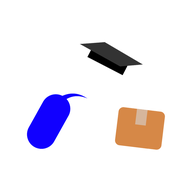
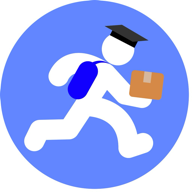
feat: 온라인 최소 500P, 수수료 상한 1,000P 정산 화면, 새 아이콘, 지도 안내 개선
- 온라인(비대면) 의뢰 최소 사례금 500P (그 외 1,000P), 상한 100,000P
- 플랫폼 수수료 10% + 1,000P 상한(_platform_fee), 의뢰 작성·결제 확인 화면에
  수행자 수령액/수수료 차감 정산 내역 표시
- 사례금 입력란에 한도·보유 포인트 안내와 범위 초과 경고 복구
- 새 로고 이미지로 logo-mark/icon-192/icon-512/apple-touch-icon/app icon 교체
- /map '지도에서 찾기' 헤딩 제거, 카카오맵 실패 시 도메인 등록 안내로 문구 변경

diff --git a/src/app/(app)/errands/new/_components/new-errand-form.tsx b/src/app/(app)/errands/new/_components/new-errand-form.tsx
@@ -7,8 +7,14 @@ import {
   ERRAND_CATEGORIES,
   URGENT_LEVEL_FEE,
   MIN_ERRAND_PRICE,
+  MAX_ERRAND_PRICE,
+  PLATFORM_FEE_MAX,
+  PLATFORM_FEE_RATE,
   LOCATION_TYPES,
   LOCATION_TYPE_LABEL,
+  calculatePlatformFee,
+  calculateRunnerPayout,
+  minErrandPrice,
   type ErrandCategory,
   type LocationType,
 } from "@/lib/constants";
@@ -113,13 +119,17 @@ export function NewErrandForm({ places, pointBalance, schoolCenter }: NewErrandF
   const priceNumber = Number(price) || 0;
   const urgentFee = urgentLevel === 0 ? 0 : URGENT_LEVEL_FEE[urgentLevel];
   const totalCost = priceNumber + urgentFee;
+  const minPrice = minErrandPrice(locationType);
+  const platformFee = calculatePlatformFee(priceNumber);
+  const runnerPayout = calculateRunnerPayout(priceNumber);
 
   const isFormValid =
     title.trim().length >= 2 &&
     body.trim().length >= 5 &&
     effectiveFromLeg.label.trim().length >= 1 &&
     effectiveToLeg.label.trim().length >= 1 &&
-    priceNumber >= MIN_ERRAND_PRICE &&
+    priceNumber >= minPrice &&
+    priceNumber <= MAX_ERRAND_PRICE &&
     totalCost <= pointBalance;
 
   async function handleConfirmSubmit() {
@@ -290,9 +300,20 @@ export function NewErrandForm({ places, pointBalance, schoolCenter }: NewErrandF
           className={inputBaseClass}
           value={price}
           onChange={(event) => setPrice(event.target.value)}
-          min={MIN_ERRAND_PRICE}
+          min={minPrice}
+          max={MAX_ERRAND_PRICE}
           step={100}
         />
+        <span className="text-xs text-gray-400">
+          한도 {formatPoints(minPrice)} ~ {formatPoints(MAX_ERRAND_PRICE)}
+          {locationType === "online" && " · 온라인 의뢰는 최소 금액이 낮아요"} · 보유 {formatPoints(pointBalance)}
+        </span>
+        {priceNumber > 0 && priceNumber < minPrice && (
+          <span className="text-xs text-[#F04452]">{formatPoints(minPrice)} 이상으로 입력해 주세요.</span>
+        )}
+        {priceNumber > MAX_ERRAND_PRICE && (
+          <span className="text-xs text-[#F04452]">{formatPoints(MAX_ERRAND_PRICE)} 이하로 입력해 주세요.</span>
+        )}
       </FormField>
 
       <FormField label="긴급 옵션">
@@ -316,9 +337,32 @@ export function NewErrandForm({ places, pointBalance, schoolCenter }: NewErrandF
 
       {error && <p className="text-xs text-[#F04452]">{error}</p>}
 
-      <div className="flex items-center justify-between rounded-xl bg-gray-50 px-4 py-3 text-sm">
-        <span className="text-gray-500">총 결제 금액</span>
-        <span className="font-bold text-[#3B5BFD]">{formatPoints(totalCost)}</span>
+      <div className="flex flex-col gap-1.5 rounded-xl bg-gray-50 px-4 py-3 text-sm">
+        <div className="flex justify-between text-gray-500">
+          <span>사례금</span>
+          <span>{formatPoints(priceNumber)}</span>
+        </div>
+        {urgentFee > 0 && (
+          <div className="flex justify-between text-[#F04452]">
+            <span>긴급 옵션</span>
+            <span>+{formatPoints(urgentFee)}</span>
+          </div>
+        )}
+        <div className="flex justify-between border-t border-gray-200 pt-1.5 font-bold text-gray-900">
+          <span>총 결제 금액</span>
+          <span className="text-[#3B5BFD]">{formatPoints(totalCost)}</span>
+        </div>
+        <div className="mt-1 flex justify-between border-t border-dashed border-gray-200 pt-1.5 text-gray-500">
+          <span>수행자 수령액</span>
+          <span className="font-semibold text-gray-700">{formatPoints(runnerPayout)}</span>
+        </div>
+        <div className="flex justify-between text-gray-400">
+          <span>
+            플랫폼 수수료 {Math.round(PLATFORM_FEE_RATE * 100)}%
+            {platformFee >= PLATFORM_FEE_MAX && ` (상한 ${formatPoints(PLATFORM_FEE_MAX)})`}
+          </span>
+          <span>-{formatPoints(platformFee)}</span>
+        </div>
       </div>
       {totalCost > pointBalance && (
         <p className="text-xs text-[#F04452]">보유 포인트({formatPoints(pointBalance)})가 부족해요.</p>

diff --git a/src/app/(app)/errands/new/_components/payment-confirm-modal.tsx b/src/app/(app)/errands/new/_components/payment-confirm-modal.tsx
@@ -1,4 +1,10 @@
 import { formatPoints } from "@/lib/utils";
+import {
+  PLATFORM_FEE_MAX,
+  PLATFORM_FEE_RATE,
+  calculatePlatformFee,
+  calculateRunnerPayout,
+} from "@/lib/constants";
 import { primaryButtonClass, secondaryButtonClass } from "@/components/ui/form-field";
 
 interface PaymentConfirmModalProps {
@@ -24,13 +30,15 @@ export function PaymentConfirmModal({
   onCancel,
   onConfirm,
 }: PaymentConfirmModalProps) {
+  const platformFee = calculatePlatformFee(price);
+  const runnerPayout = calculateRunnerPayout(price);
   return (
     <div className="fixed inset-0 z-50 flex items-center justify-center bg-black/40 px-5" onClick={onCancel}>
       <div
         className="w-full max-w-sm rounded-2xl bg-white p-5"
         onClick={(event) => event.stopPropagation()}
       >
-        <h2 className="text-lg font-bold text-gray-900">결제 확인</h2>
+        <h2 className="text-lg font-bold text-gray-900">정산 확인</h2>
         <p className="mt-1 text-sm text-gray-500">{title}</p>
         <p className="mt-1 text-xs text-gray-400">{fromLabel} → {toLabel}</p>
 
@@ -51,8 +59,23 @@ export function PaymentConfirmModal({
           </div>
         </div>
 
+        <div className="mt-2 flex flex-col gap-1.5 rounded-xl border border-dashed border-gray-200 p-3 text-sm">
+          <p className="text-xs font-semibold text-gray-500">완료 후 정산</p>
+          <div className="flex justify-between text-gray-700">
+            <span>수행자 수령액</span>
+            <span className="font-semibold">{formatPoints(runnerPayout)}</span>
+          </div>
+          <div className="flex justify-between text-gray-400">
+            <span>
+              플랫폼 수수료 {Math.round(PLATFORM_FEE_RATE * 100)}%
+              {platformFee >= PLATFORM_FEE_MAX && ` (상한 ${formatPoints(PLATFORM_FEE_MAX)})`}
+            </span>
+            <span>-{formatPoints(platformFee)}</span>
+          </div>
+        </div>
+
         <p className="mt-3 text-xs text-gray-400">
-          결제한 포인트는 수행자가 선택될 때까지 보관되며, 완료 확인 후 지급돼요.
+          결제한 포인트는 수행자가 선택될 때까지 보관되며, 완료 확인 후 수수료를 뺀 금액이 수행자에게 지급돼요.
         </p>
 
         <div className="mt-4 flex gap-2">

diff --git a/src/lib/validation/errand.ts b/src/lib/validation/errand.ts
@@ -1,5 +1,12 @@
 import { z } from "zod";
-import { ERRAND_CATEGORIES, LOCATION_TYPES } from "@/lib/constants";
+import {
+  ERRAND_CATEGORIES,
+  LOCATION_TYPES,
+  MAX_ERRAND_PRICE,
+  MIN_ERRAND_PRICE,
+  MIN_ERRAND_PRICE_ONLINE,
+  minErrandPrice,
+} from "@/lib/constants";
 
 const CATEGORY_VALUES = ERRAND_CATEGORIES.map((category) => category.value) as [string, ...string[]];
 
@@ -20,7 +27,11 @@ export const createErrandSchema = z.object({
   toLabel: z.string().min(1, "도착지를 선택해 주세요."),
   toDetail: z.string().max(200).optional(),
   desiredAt: z.string().min(1, "희망 시각을 선택해 주세요."),
-  price: z.number().int().min(1000, "금액은 1,000P 이상이어야 해요."),
+  price: z
+    .number()
+    .int()
+    .min(MIN_ERRAND_PRICE_ONLINE, `금액은 ${MIN_ERRAND_PRICE_ONLINE.toLocaleString("ko-KR")}P 이상이어야 해요.`)
+    .max(MAX_ERRAND_PRICE, `금액은 ${MAX_ERRAND_PRICE.toLocaleString("ko-KR")}P 이하여야 해요.`),
   aiSuggestedPrice: z.number().int().optional(),
   urgentLevel: z.union([z.literal(0), z.literal(1), z.literal(2)]).default(0),
   imageUrl: z.string().url().optional(),
@@ -30,6 +41,12 @@ export const createErrandSchema = z.object({
     (input.fromLat !== null && input.fromLat !== undefined && input.fromLng !== null && input.fromLng !== undefined &&
       input.toLat !== null && input.toLat !== undefined && input.toLng !== null && input.toLng !== undefined),
   { message: "캠퍼스 장소를 선택하면 좌표가 필요해요." },
+).refine(
+  (input) => input.price >= minErrandPrice(input.locationType),
+  {
+    error: `온라인 의뢰는 ${MIN_ERRAND_PRICE_ONLINE.toLocaleString("ko-KR")}P, 그 외는 ${MIN_ERRAND_PRICE.toLocaleString("ko-KR")}P 이상으로 입력해 주세요.`,
+    path: ["price"],
+  },
 );
 
 export type CreateErrandInput = z.infer<typeof createErrandSchema>;

diff --git a/src/lib/kakao/loader.ts b/src/lib/kakao/loader.ts
@@ -26,12 +26,18 @@ export function loadKakaoMaps(): Promise<typeof kakao> {
     const existingScript = document.getElementById(SCRIPT_ID) as HTMLScriptElement | null;
     const script = existingScript ?? document.createElement("script");
     script.id = SCRIPT_ID;
-    script.src = `//dapi.kakao.com/v2/maps/sdk.js?appkey=${appKey}&autoload=false&libraries=clusterer`;
+    script.src = `https://dapi.kakao.com/v2/maps/sdk.js?appkey=${appKey}&autoload=false&libraries=clusterer`;
     script.async = true;
     script.addEventListener("load", () => window.kakao.maps.load(() => resolve(window.kakao)));
+    // 스크립트 로드 실패는 대부분 카카오 개발자 콘솔에 현재 도메인이 등록되지 않아
+    // 401(domain mismatched)이 떨어지는 경우다. 원인을 바로 알 수 있게 도메인을 같이 보여준다.
     script.addEventListener("error", () => {
       loaderPromise = null;
-      reject(new Error("카카오맵 스크립트를 불러오지 못했어요. 네트워크 상태를 확인해 주세요."));
+      reject(
+        new Error(
+          `카카오맵을 불러오지 못했어요. 카카오 개발자 콘솔 > 플랫폼 > Web에 ${window.location.origin} 을 등록해 주세요.`,
+        ),
+      );
     });
     if (!existingScript) document.head.appendChild(script);
   });

diff --git a/src/lib/constants.ts b/src/lib/constants.ts
@@ -3,10 +3,14 @@ export const SELECT_WINDOW_MS = 3 * 60 * 60 * 1000;
 export const CONFIRM_WINDOW_MS = 24 * 60 * 60 * 1000;
 
 export const PLATFORM_FEE_RATE = 0.1;
-export const RUNNER_PAYOUT_RATE = 0.9;
+// 수수료는 10%지만 고액 의뢰에서 과도해지지 않도록 1,000P에서 상한을 둔다.
+export const PLATFORM_FEE_MAX = 1000;
 
 export const SIGNUP_BONUS_POINTS = 10000;
 export const MIN_ERRAND_PRICE = 1000;
+// 온라인(비대면) 의뢰는 이동이 없어 최소 사례금을 낮게 받는다.
+export const MIN_ERRAND_PRICE_ONLINE = 500;
+export const MAX_ERRAND_PRICE = 100000;
 
 export const URGENT_LEVEL_FEE: Record<1 | 2, number> = {
   1: 100,
@@ -27,6 +31,18 @@ export const LOCATION_TYPE_LABEL: Record<LocationType, string> = {
   custom: "직접 입력",
   online: "온라인(비대면)",
 };
+
+export function minErrandPrice(locationType: LocationType): number {
+  return locationType === "online" ? MIN_ERRAND_PRICE_ONLINE : MIN_ERRAND_PRICE;
+}
+
+export function calculatePlatformFee(price: number): number {
+  return Math.min(Math.floor(price * PLATFORM_FEE_RATE), PLATFORM_FEE_MAX);
+}
+
+export function calculateRunnerPayout(price: number): number {
+  return price - calculatePlatformFee(price);
+}
 
 export const GATHERING_CATEGORIES = [
   { value: "study", label: "스터디" },

diff --git a/src/app/(app)/map/page.tsx b/src/app/(app)/map/page.tsx
@@ -16,7 +16,6 @@ export default async function MapPage() {
 
   return (
     <main className="flex flex-col gap-3 pt-4">
-      <h1 className="px-5 text-lg font-bold text-gray-900">지도에서 찾기</h1>
       <ErrandClusterMap errands={errands ?? []} />
     </main>
   );
